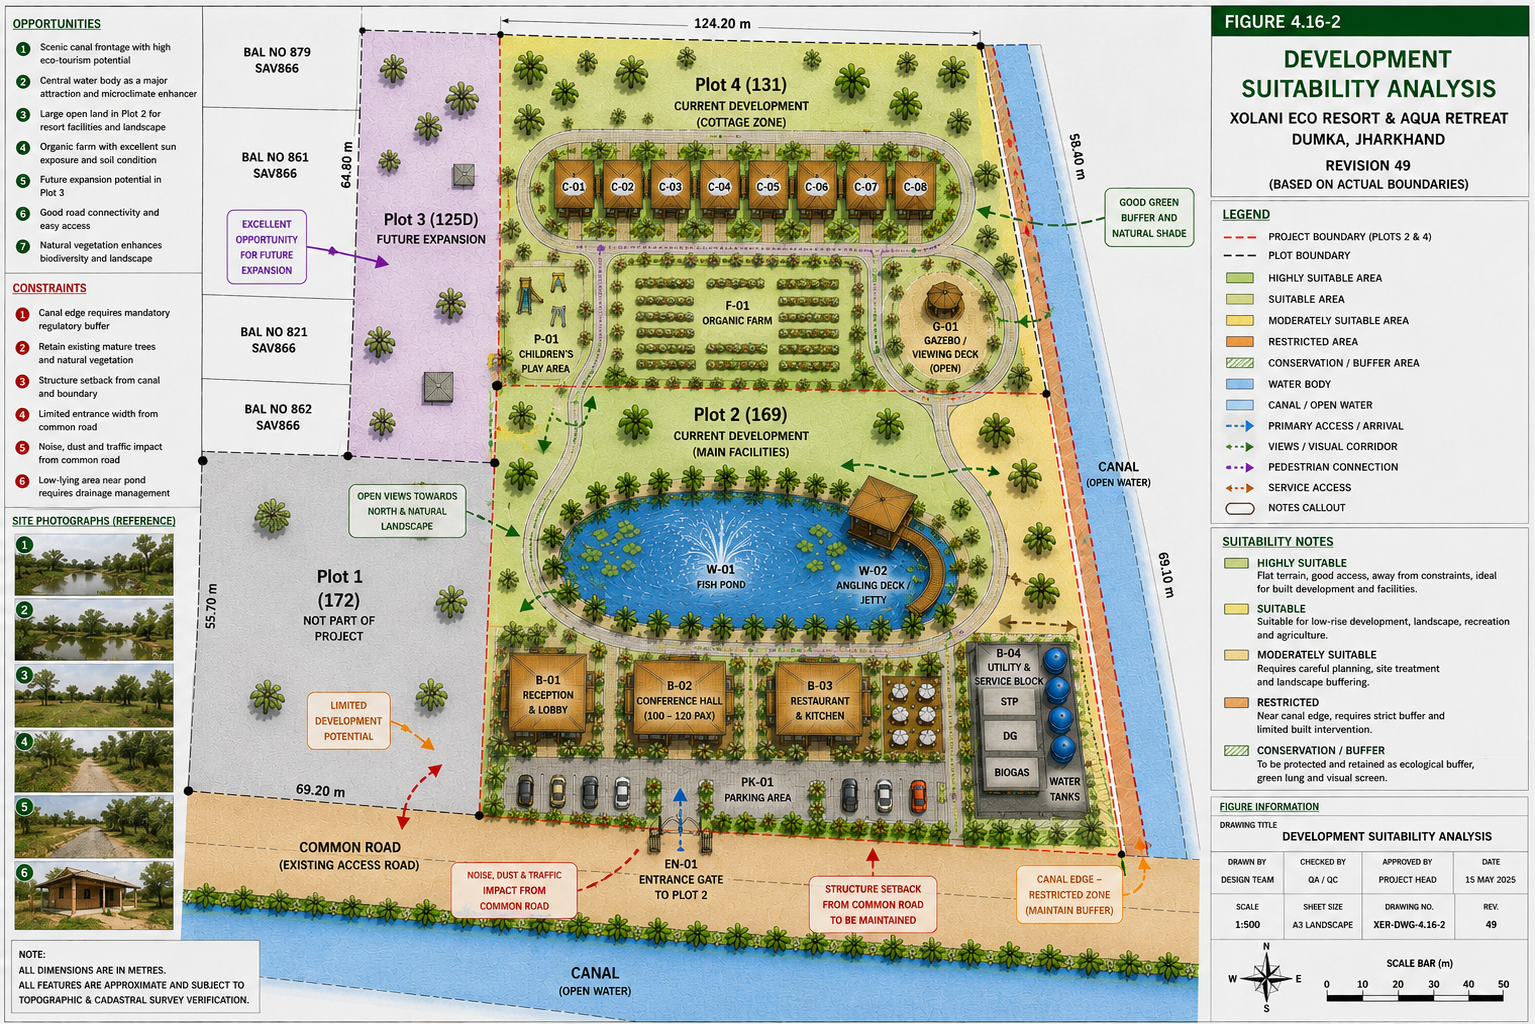
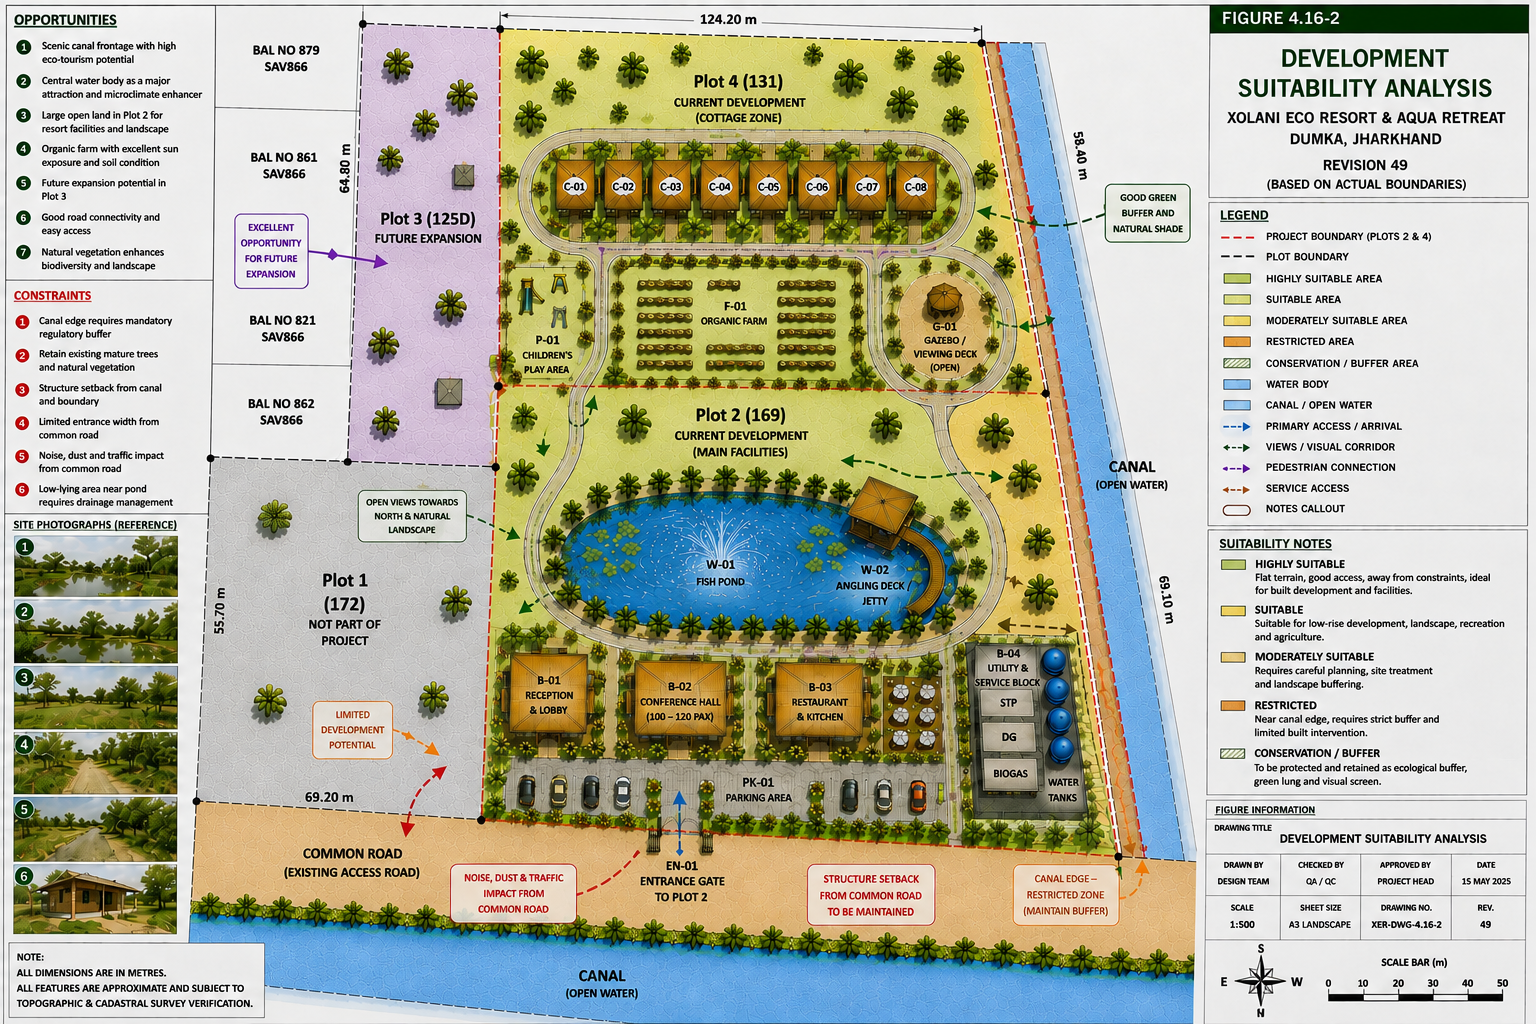
Approve AST-000020 Development Suitability Analysis and DAR-020

diff --git a/engineering/DAR/DAR-020/DAR-020_Drawing_Analysis_Report.md b/engineering/DAR/DAR-020/DAR-020_Drawing_Analysis_Report.md
@@ -1,0 +1,47 @@
+# DAR-020 - Drawing Analysis Report
+
+## Controlled Asset
+
+- Asset ID: AST-000020
+- Original Filename: ChatGPT Image Jul 17, 2026, 05_26_30 PM.png
+- Repository Path: drawings/Current/ChatGPT Image Jul 17, 2026, 05_26_30 PM.png
+- DAR Reference: DAR-020
+
+## Drawing Identity
+
+- Figure: Figure 4.16-2
+- Title: DEVELOPMENT SUITABILITY ANALYSIS
+- Drawing Number: XER-DWG-4.16-2
+- Revision: 49
+- Date: 15 MAY 2025
+- Sheet: A3 Landscape
+- Scale: 1:500
+
+## Comparison Baseline
+
+AST-000018 and AST-000019 were used as approved project-orientation
+comparison baselines.
+
+The substantive suitability analysis, site layout, boundaries, labels,
+colors, annotations, dimensions, title block, revision, scale and site
+content were retained.
+
+## Approved Correction
+
+The compass was corrected only.
+
+The approved project orientation is:
+
+- North - down
+- South - up
+- East - left
+- West - right
+
+No other drawing content was intentionally changed.
+
+## Approved Status
+
+APPROVED
+
+AST-000020 is controlled as the Development Suitability Analysis drawing,
+Figure 4.16-2.
